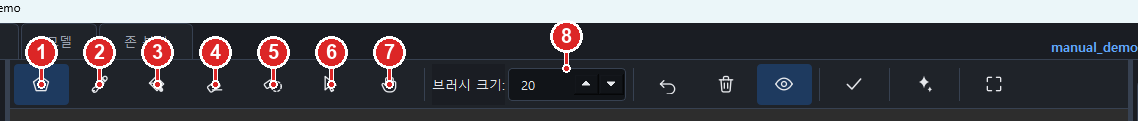
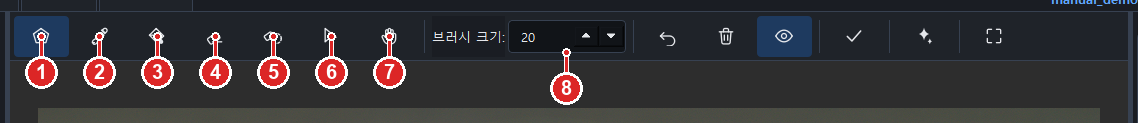
docs: Zone 에디션 사용자 매뉴얼 초안 보강 — 일괄처리 결과/Excel 캡처 3장 추가, 툴바 콜아웃 가독성 개선

diff --git a/docs/USER_MANUAL_ZONE.html b/docs/USER_MANUAL_ZONE.html
@@ -677,10 +677,12 @@ AI 결과가 완벽하진 않습니다. 잘못 잡힌 곳을 지우거나 빠진
   <li><b>취소</b> — 아무것도 하지 않습니다.</li>
 </ul>
 
-<figure>
-  <img src="manual_assets_zone/30_zone_batch_progress.png" alt="일괄 처리 진행창">
-  <figcaption>처리 중 진행 상황 — <b>취소</b>를 누르면 중간에 멈출 수 있습니다</figcaption>
-</figure>
+<div class="note">
+  <b>처리 중 화면</b> — 시작하면 <code>3 / 12  사진이름.png</code> 처럼 진행 상황을 보여 주는 작은 창이 뜹니다.
+  <b>취소</b>를 누르면 중간에 멈출 수 있고, 그때까지 처리된 결과는 그대로 표로 나옵니다.
+  왼쪽 이미지 목록에도 사진마다 처리 상태와 마지막 존의 비율이 표시됩니다.
+  이미 추론이 끝난 사진은 결과를 다시 쓰기 때문에 몇 장이면 순식간에 끝납니다.
+</div>
 
 <h3 id="s7-12">8.12 11단계 · Excel로 내보내기</h3>
 
@@ -702,12 +704,14 @@ AI 결과가 완벽하진 않습니다. 잘못 잡힌 곳을 지우거나 빠진
 
 <figure>
   <img src="manual_assets_zone/33_zone_export_done.png" alt="내보내기 완료">
-  <figcaption>저장이 끝나면 몇 줄을 저장했는지 알려 줍니다</figcaption>
+  <figcaption>저장이 끝나면 몇 줄을 저장했는지 알려 줍니다 (사진 1장 · 존 3개를 저장한 예)</figcaption>
 </figure>
 
 <div class="note">
-  사진 1장만 저장하고 싶으면 오른쪽 아래 <b>Excel로 내보내기</b> 버튼(8.8 ③)을 쓰세요.
-  일괄 처리 결과 창의 버튼은 처리한 <b>모든 사진</b>을 저장합니다.
+  <b>내보내기 버튼이 두 군데 있습니다.</b><br>
+  · 화면 오른쪽 아래 <b>Excel로 내보내기</b>(8.8 ③) — 지금 보고 있는 <b>사진 1장</b>만 저장<br>
+  · 일괄 처리 결과 창의 <b>Excel로 내보내기</b>(위 ③) — 처리한 <b>모든 사진</b> 저장<br>
+  저장 형식은 둘 다 같습니다 — <code>이미지 / 존 / 타겟 비율(%)</code> 세 개 열.
 </div>
 
 <!-- ─────────────────────────────────────────────────────────── -->
